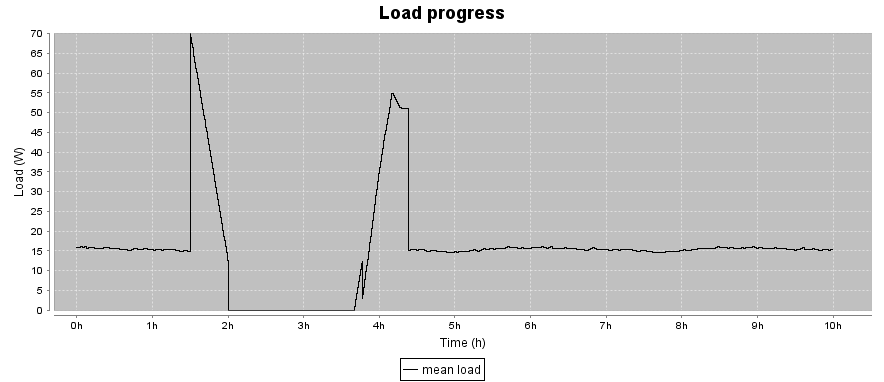
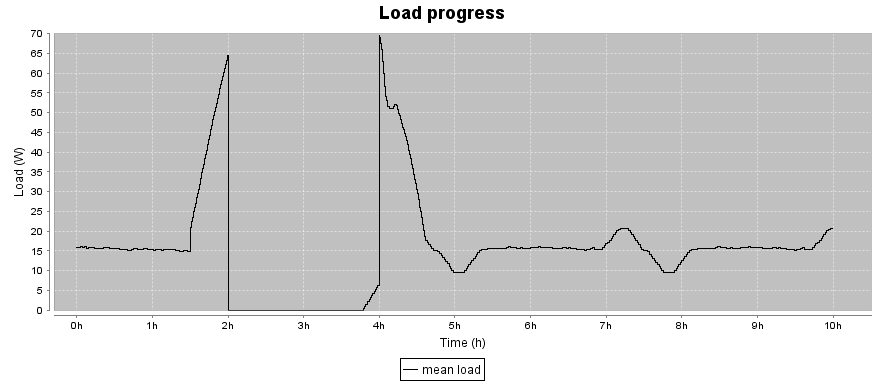
neue ergebnisdiagramme für tlr-stateful
git-svn-id: file:///home/chh/dump/svn/chh/Fridge@153 f626433a-2895-11dd-a5f2-844af5208ae5

diff --git a/src/de/uniol/ui/desync/Configuration.java b/src/de/uniol/ui/desync/Configuration.java
@@ -36,7 +36,7 @@ public class Configuration {
 	
 	/* Simulation params */
 	/** Amount of simulated fridges */
-	public int POPULATION_SIZE = 1000;
+	public int POPULATION_SIZE = 5000;
 	/** Length of simulation, 1 unit == 1 hour */
 	public double SIMULATION_LENGTH = 10.0;
 	/** Used model type */
@@ -44,7 +44,7 @@ public class Configuration {
 	/** Used strategy */
 	public SIGNAL strategy = SIGNAL.TLR;
 	/** Used damping */
-	public DAMPING damping = DAMPING.NONE;
+	public DAMPING damping = DAMPING.STATEFUL_FULL;
 	/** Show results? */
 	public boolean showResults = true;
 	
